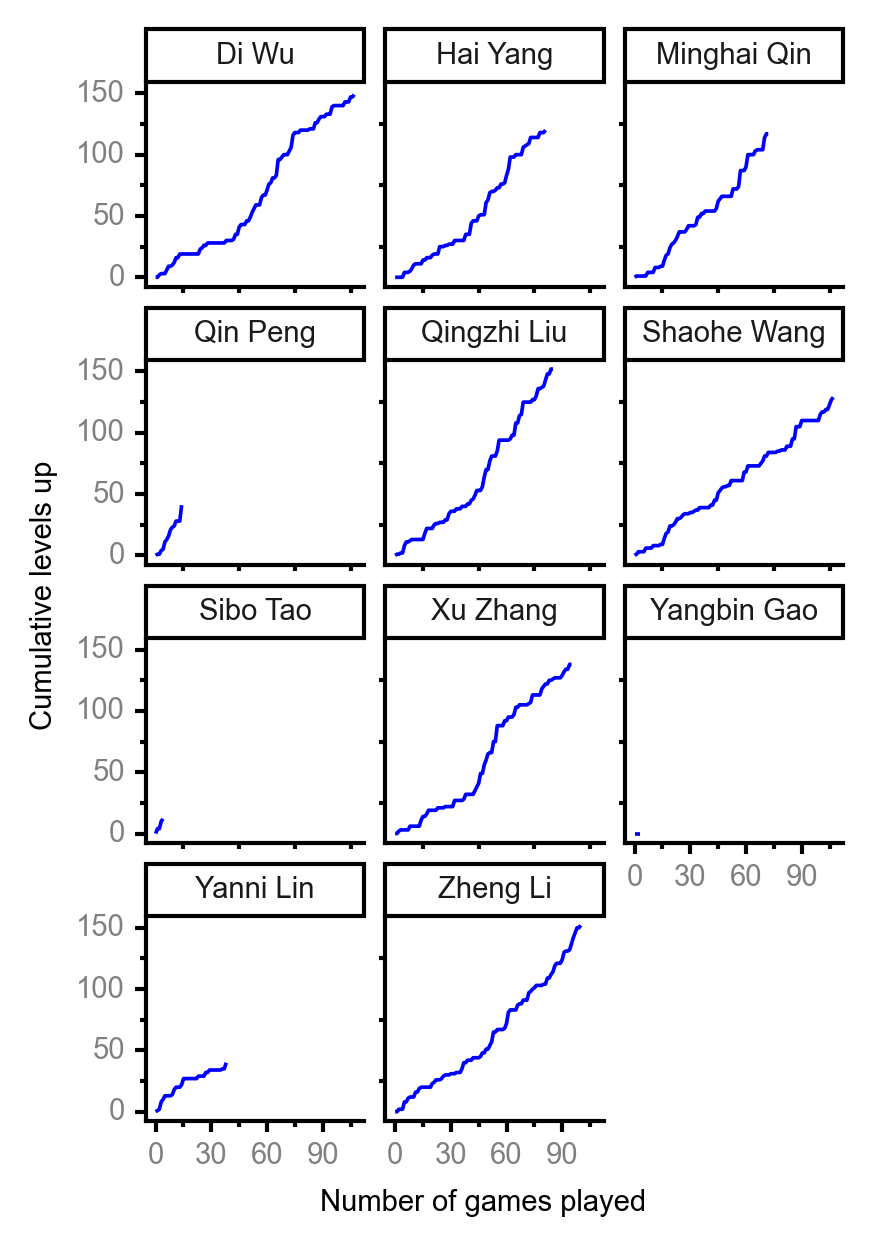
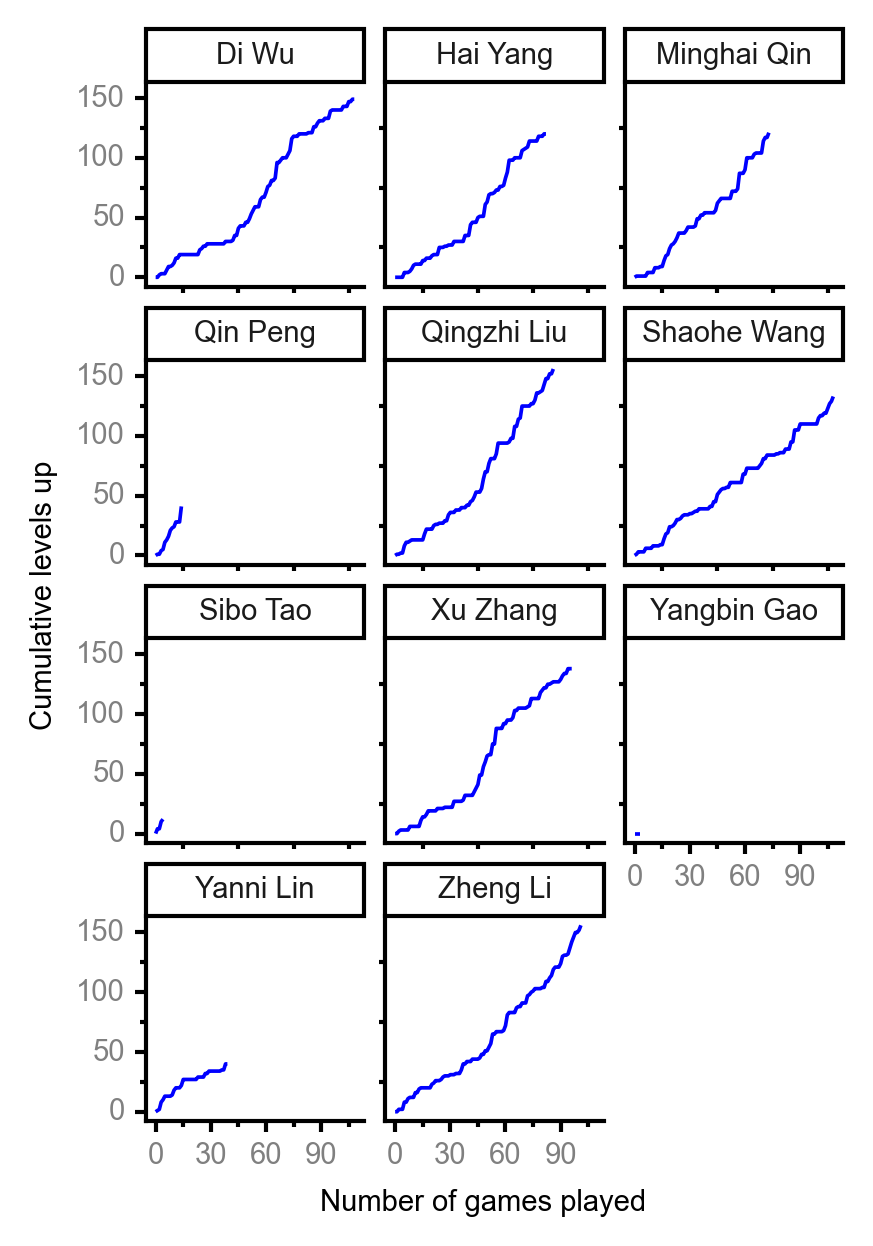
update player stats

diff --git a/player_stats.md b/player_stats.md
@@ -14,15 +14,15 @@ date: 2021-01-02
 
 | <br><br><br>Rank | <br><br><br>Player | <br> Lifetime <br> levels <br> up | <br><br> Winning <br> rate | <br> Average <br> levels <br> up | <br> Total <br> games <br> played | Games <br> played <br> as <br> MVP | Games <br> played <br> as <br> dealer | N_games <br> short <br> staffed <br> as dealer | Winning <br> rate <br> as <br> dealer |
 |:---:|:---:|:---:|:---:|:---:|:---:|:---:|:---:|:---:|:---:|
-| 1 | Zheng <br> Li | 156 | 59.4% | 2.60 | 101 | 3 | 17 | 0 | 64.7% |
-| 2 | Qingzhi <br> Liu | 156 | 54.7% | 3.32 | 86 | 2 | 13 | 3 | 53.8% |
-| 3 | Di <br> Wu | 149 | 45.4% | 3.04 | 108 | 4 | 16 | 0 | 43.8% |
-| 4 | Xu <br> Zhang | 138 | 45.8% | 3.14 | 96 | 2 | 14 | 0 | 35.7% |
-| 5 | Shaohe <br> Wang | 133 | 48.1% | 2.56 | 108 | 2 | 19 | 1 | 42.1% |
-| 6 | Minghai <br> Qin | 121 | 52.1% | 3.18 | 73 | 0 | 10 | 1 | 70.0% |
-| 7 | Hai <br> Yang | 120 | 46.3% | 3.16 | 82 | 3 | 13 | 1 | 38.5% |
+| 1 | Zheng <br> Li | 157 | 59.8% | 2.57 | 102 | 4 | 17 | 0 | 64.7% |
+| 2 | Qingzhi <br> Liu | 156 | 54.0% | 3.32 | 87 | 2 | 14 | 3 | 50.0% |
+| 3 | Di <br> Wu | 149 | 45.0% | 3.04 | 109 | 4 | 16 | 0 | 43.8% |
+| 4 | Xu <br> Zhang | 139 | 46.4% | 3.09 | 97 | 2 | 14 | 0 | 35.7% |
+| 5 | Shaohe <br> Wang | 133 | 47.7% | 2.56 | 109 | 2 | 19 | 1 | 42.1% |
+| 6 | Minghai <br> Qin | 122 | 52.7% | 3.13 | 74 | 0 | 10 | 1 | 70.0% |
+| 7 | Hai <br> Yang | 121 | 47.0% | 3.10 | 83 | 3 | 13 | 1 | 38.5% |
 | 8 | Qin <br> Peng | 41 | 80.0% | 3.42 | 15 | 1 | 2 | 0 | 100.0% |
-| 9 | Yanni <br> Lin | 40 | 38.5% | 2.67 | 39 | 1 | 3 | 1 | 66.7% |
+| 9 | Yanni <br> Lin | 40 | 37.5% | 2.67 | 40 | 1 | 3 | 1 | 66.7% |
 | 10 | Sibo <br> Tao | 14 | 80.0% | 3.50 | 5 | 0 | 0 | 0 | 0.0% |
 | 11 | Yangbin <br> Gao | 0 | 0.0% | 0.00 | 4 | 0 | 0 | 0 | 0.0% |
 | 1 | Example | 49 | 88.9% | 2.88 | 9 | 1 | 2 | 0 | 100.0% |
